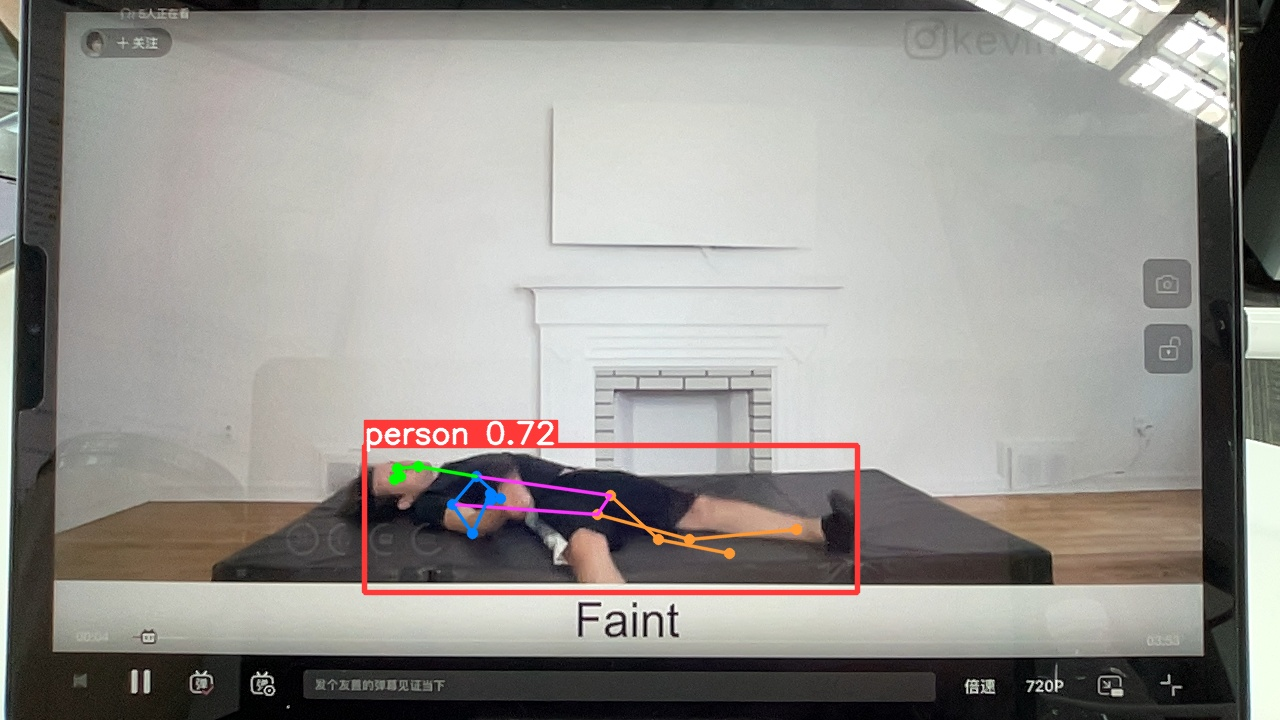
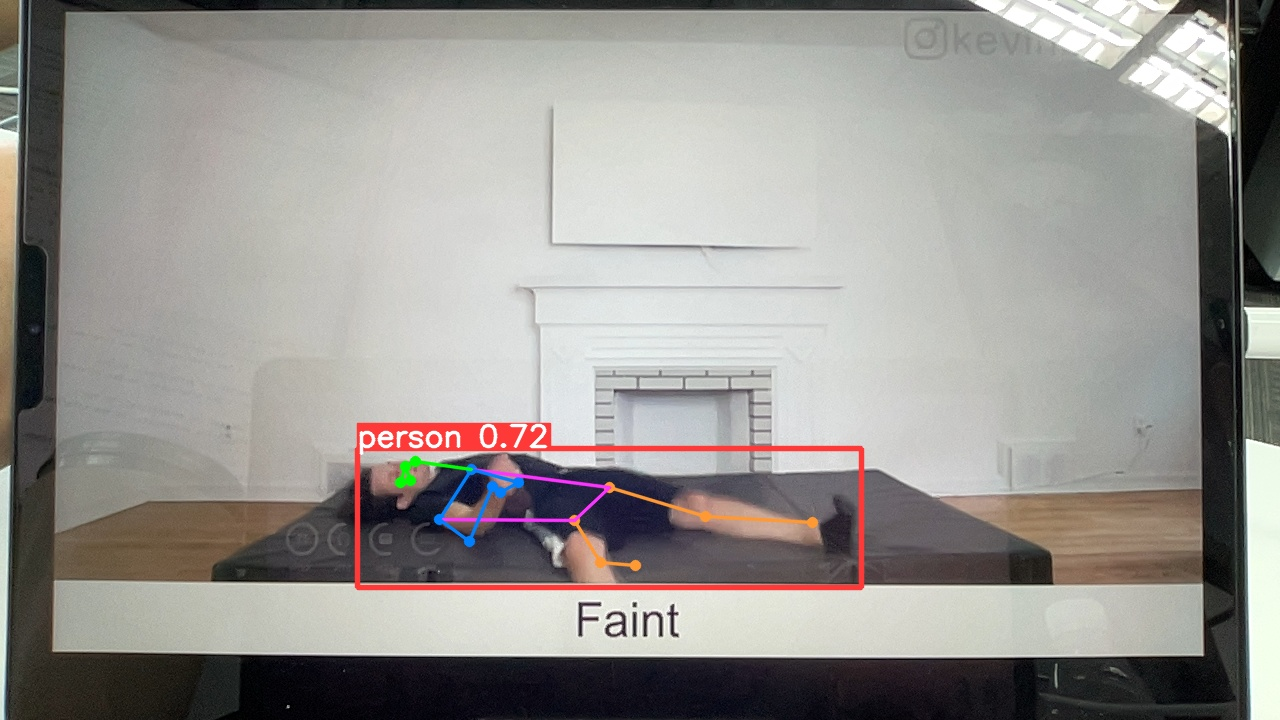
update fall_predict image

diff --git a/detect.py b/detect.py
@@ -70,15 +70,11 @@ class Detector:
                 # model_pose.predict(frame, show=True, save=True)[0].show()
                 cv2.imshow('detect_img', detect_img)
                 cv2.waitKey(0)
-                # os.system('rm -r -f ./runs/pose/predict2')
+                os.system('rm -r -f ./runs/pose/predict2')
                 self.model_pose.predict(frame, save=True)
-                time.sleep(5)
                 os.system('git add .')
-                time.sleep(5)
                 os.system('git commit -m "update fall_predict image"')
-                time.sleep(5)
                 os.system('git push')
-                time.sleep(10)
                 # try:
                 #     l_x, l_y, r_x, r_y = Results[0].boxes.xyxy[0].tolist()  # 返回YOLO检测框的左上、右下坐标
                 # except:
